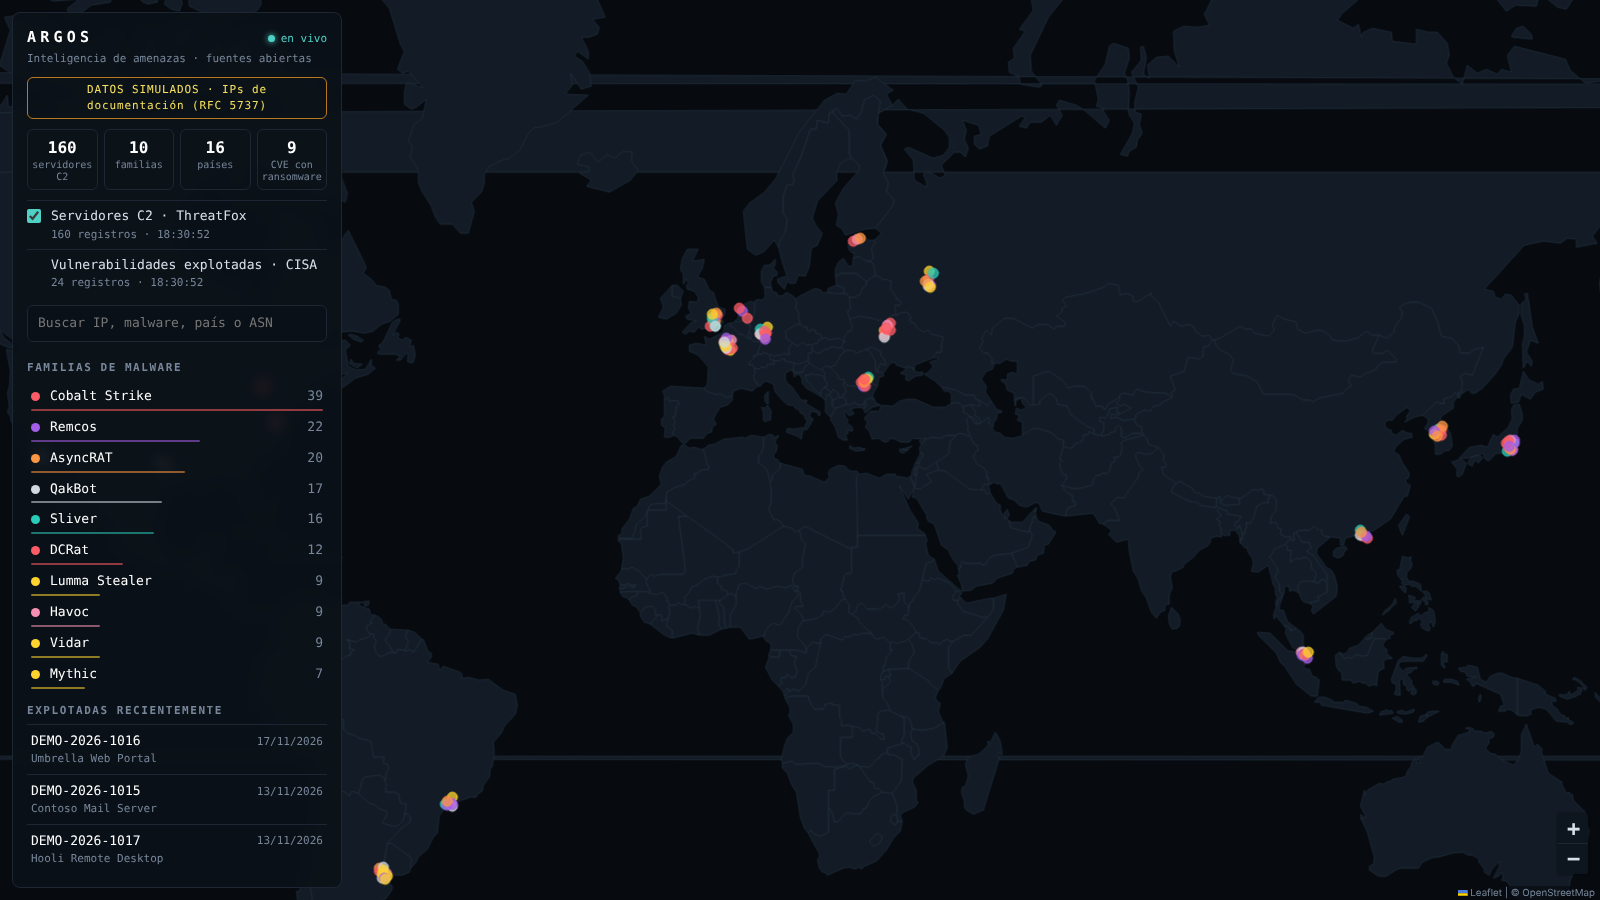
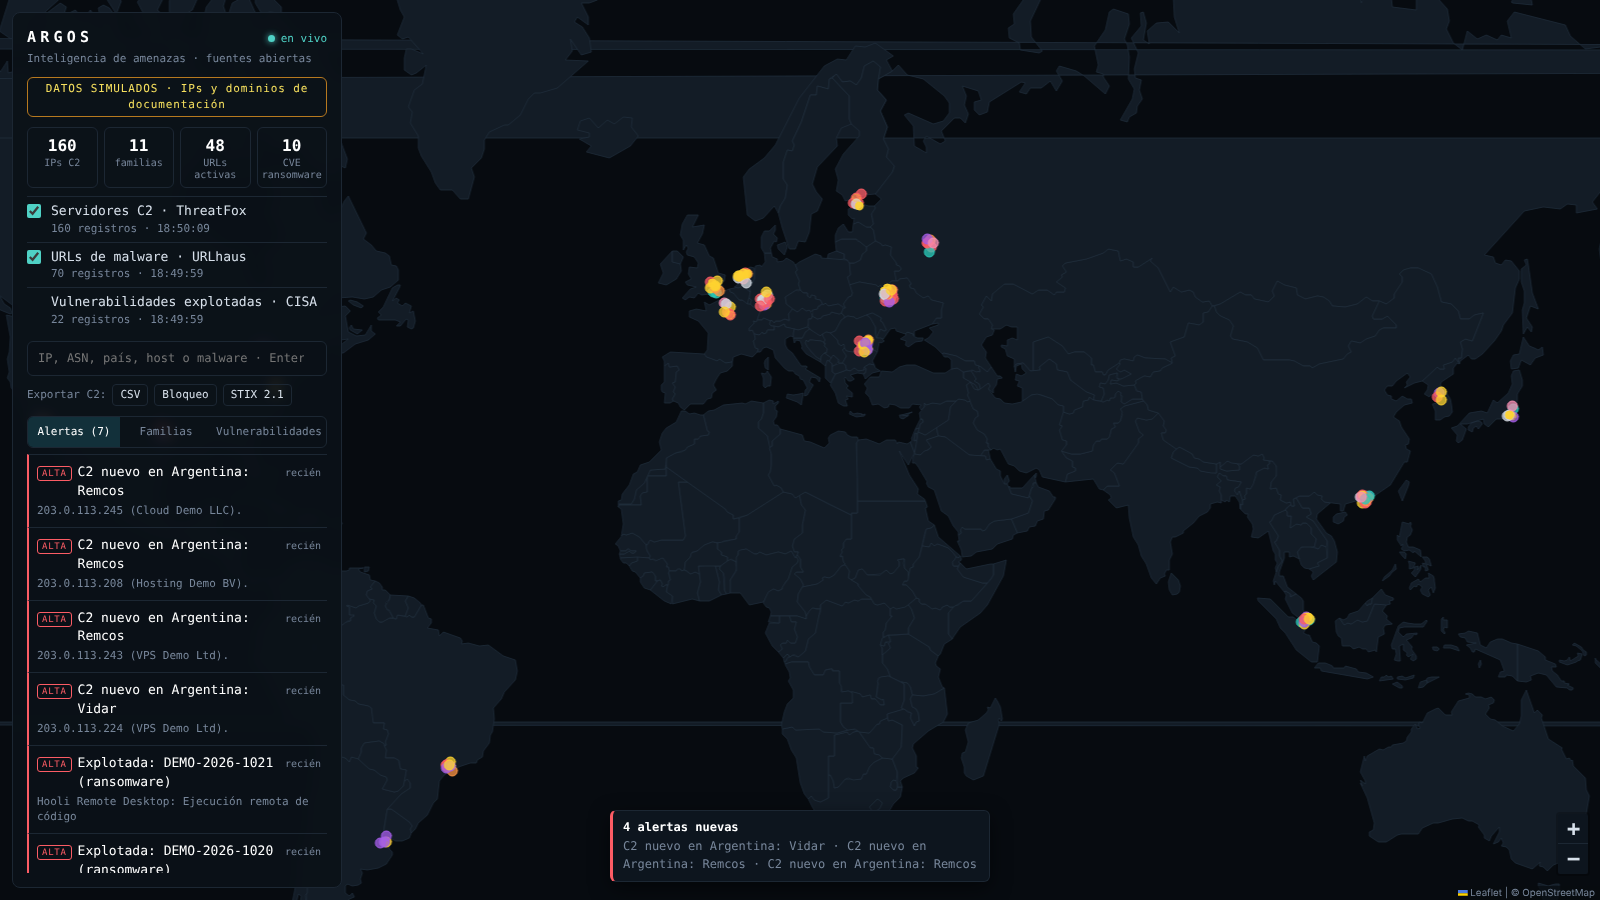
docs: documentar arquitectura y modelo de amenazas

diff --git a/README.md b/README.md
@@ -1,64 +1,58 @@
 # ARGOS
 
 Plataforma de inteligencia de amenazas con fuentes abiertas. Ubica en un mapa mundial, en tiempo
-real, los servidores de comando y control (C2) que usan las familias de malware activas, y sigue
-las vulnerabilidades que se están explotando en ataques reales.
+real, la infraestructura de los atacantes (servidores de comando y control y URLs que distribuyen
+malware), la correlaciona para descubrir conexiones, genera alertas y exporta los indicadores en
+formatos estándar.
 
 ![Vista general en modo demo](docs/vista-general.png)
 
-## Qué muestra
+## Qué hace
+
+**Fuentes en vivo**
 
 | Capa | Fuente | Qué es |
 |---|---|---|
-| Servidores C2 | [ThreatFox](https://threatfox.abuse.ch) (abuse.ch) | IPs y puertos desde los que se controla malware (Cobalt Strike, AsyncRAT, Remcos, etc.), geolocalizados y coloreados por familia |
-| Vulnerabilidades explotadas | [CISA KEV](https://www.cisa.gov/known-exploited-vulnerabilities-catalog) | CVE que CISA confirma como explotados, marcando los usados en campañas de ransomware |
+| Servidores C2 | [ThreatFox](https://threatfox.abuse.ch) | IPs desde las que se controla malware (Cobalt Strike, AsyncRAT, Remcos…), geolocalizadas y coloreadas por familia |
+| URLs de malware | [URLhaus](https://urlhaus.abuse.ch) | Enlaces que distribuyen malware; los alojados en una IP aparecen en el mapa |
+| Vulnerabilidades explotadas | [CISA KEV](https://www.cisa.gov/known-exploited-vulnerabilities-catalog) | CVE confirmados en ataques reales, marcando los usados por ransomware |
 
-En el panel se puede filtrar por familia de malware, buscar por IP, país o ASN, y abrir el detalle
-de cada indicador. Las IPs se muestran desactivadas (`45[.]9[.]148[.]10`), como es costumbre al
-compartir indicadores, para que no se abran por error.
+**Investigación por correlación.** Desde cualquier IP, red (ASN), país, host o familia de malware se
+abre una investigación que muestra todo lo conectado en un grafo navegable: qué familias usan esa
+IP, qué otras IPs maliciosas hay en la misma red, qué URLs de malware aloja. Cada nodo es un nuevo
+punto de partida, y el recorrido queda en migas para volver atrás.
 
-![Filtro por familia y detalle de un indicador](docs/filtro-y-detalle.png)
+![Investigación de una IP](docs/investigacion.png)
+
+**Alertas automáticas** cuando aparece una familia de malware nunca vista, un servidor C2 en un
+país vigilado, un crecimiento brusco de una familia o una vulnerabilidad explotada nueva (con
+severidad alta si la usa el ransomware).
+
+**Exportación** de los indicadores en CSV, como lista de bloqueo para un firewall, o en
+[STIX 2.1](https://oasis-open.github.io/cti-documentation/), el estándar para compartir
+inteligencia de amenazas entre herramientas. Se puede exportar todo o solo una familia o un país.
 
 ## Arquitectura
 
-```
-fuentes ──► recolectores ──► enriquecimiento (GeoIP + caché) ──► caché ──► WebSocket ──► navegador
-                                                                   │                       ▲
-                                                                   └──► historial ─────────┘ REST
-```
+Backend en Python (FastAPI) y frontend en TypeScript (Vite + Leaflet), comunicados por REST y
+WebSocket. El detalle de cada pieza y las decisiones de diseño están en
+[docs/ARCHITECTURE.md](docs/ARCHITECTURE.md).
 
-### Backend (`backend/`, Python + FastAPI)
+## Seguridad
 
-| Carpeta | Responsabilidad |
-|---|---|
-| `app/collectors/` | Un módulo por fuente (ThreatFox, CISA KEV, demo). Todos implementan `Collector.fetch()` y devuelven `Entity`. |
-| `app/geolocation/` | Puerto `Geolocator` con adaptadores intercambiables (ip-api, demo). |
-| `app/services/` | Planificador por fuente con espera creciente ante errores, enriquecimiento, caché en memoria y difusión por WebSocket. |
-| `app/storage/` | Historial y caché de geolocalización en SQLite, detrás de interfaces chicas. |
-| `app/api/` | REST y WebSocket. Solo leen datos ya procesados: nunca consultan fuentes. |
-| `app/domain/` | Modelo común (`Entity`, `GeoInfo`, `Snapshot`): el contrato con el frontend. |
-| `app/core/` | Configuración por variables de entorno o `backend/.env`. |
+El modelo de amenazas completo está en [SECURITY.md](SECURITY.md). En resumen:
 
-### Frontend (`frontend/`, Vite + TypeScript + Leaflet)
+- Las claves viven solo en `backend/.env`; el navegador nunca las ve, y gitleaks las busca en CI.
+- Todo dato externo se valida al entrar y se muestra como texto, nunca como HTML.
+- Los indicadores se muestran desactivados (`1[.]2[.]3[.]4`) y el CSV neutraliza fórmulas de Excel.
+- La API es de solo lectura, con límite de consultas por cliente y cabeceras de seguridad.
+- El modo demo usa IPs y dominios reservados para documentación: nunca acusa a una IP real.
 
-| Carpeta | Responsabilidad |
-|---|---|
-| `src/api/` | Tipos del contrato y cliente REST/WebSocket con reconexión automática. |
-| `src/state/` | Estado global inmutable con suscripción (flujo de datos en una sola dirección). |
-| `src/layers/` | Una clase por capa del mapa con la interfaz `MapLayer`, registradas en `registry.ts`. |
-| `src/map/` | Mapa base configurable, sin lógica de datos. |
-| `src/ui/` | Panel: estadísticas, fuentes, familias de malware y vulnerabilidades. |
+## Calidad
 
-## Decisiones de seguridad
-
-- **Las claves viven solo en el backend** (`backend/.env`, fuera de Git). El navegador nunca las ve.
-- **Todo dato externo se trata como no confiable:** se valida con Pydantic al entrar y se muestra con
-  `textContent`, nunca como HTML. Los enlaces solo se aceptan si son `http(s)`.
-- **Indicadores desactivados** en la interfaz para evitar clics accidentales.
-- **API de solo lectura** (CORS limitado a `GET` y al origen del frontend).
-- **El modo demo no acusa a nadie:** usa IPs reservadas para documentación (RFC 5737) y CVE ficticios.
-- **Geolocalización mínima:** solo se envían a ip-api IPs públicas que ya son indicadores públicos, y
-  cada una se consulta una única vez gracias a la caché.
+Cada cambio pasa por [GitHub Actions](.github/workflows/ci.yml): linter con reglas de seguridad
+(Ruff con Bandit), tests, chequeo de tipos, auditoría de dependencias de Python y de npm, y
+búsqueda de claves filtradas. Dependabot propone actualizaciones de dependencias cada semana.
 
 ## Cómo correrlo
 
@@ -71,7 +65,7 @@ python -m venv .venv
 .venv/Scripts/activate        # Windows (PowerShell: .venv\Scripts\Activate.ps1)
 # source .venv/bin/activate   # Linux o Mac
 pip install -e ".[dev]"
-cp .env.example .env          # y completá ARGOS_THREATFOX_KEY
+cp .env.example .env          # y completá ARGOS_ABUSECH_KEY
 python -m uvicorn app.main:app --reload
 
 # frontend (otra terminal)
@@ -82,14 +76,14 @@ npm run dev                   # http://localhost:5173
 
 Para probarlo sin clave ni red, poné `ARGOS_MODE=demo` en `backend/.env`.
 
-La clave de ThreatFox es gratuita: se genera en <https://auth.abuse.ch> entrando con una cuenta de
+La clave de abuse.ch (sirve para ThreatFox y URLhaus) es gratuita: se genera en <https://auth.abuse.ch> entrando con una cuenta de
 GitHub, Google o similar.
 
 ### Con Docker
 
 ```bash
-cp backend/.env.example .env
-docker compose up --build     # http://localhost:8080
+cp backend/.env.example backend/.env    # y completá la clave
+docker compose up --build               # http://localhost:8080
 ```
 
 ## Endpoints
@@ -98,23 +92,28 @@ docker compose up --build     # http://localhost:8080
 |---|---|---|
 | GET | `/api/health` | estado y modo (`live` o `demo`) |
 | GET | `/api/layers` | estado de cada fuente |
-| GET | `/api/layers/{capa}` | entidades actuales (`c2` o `kev`) |
+| GET | `/api/layers/{capa}` | entidades actuales (`c2`, `urls` o `kev`) |
+| GET | `/api/pivot?kind=ip&value=…` | correlación de una IP, `asn`, `country`, `malware` o `host` |
+| GET | `/api/alerts` | alertas recientes |
+| GET | `/api/export/c2.csv` · `blocklist.txt` · `stix.json` | indicadores exportados (filtros `malware` y `country`) |
 | GET | `/api/history/{capa}?hours=24` | observaciones guardadas (hasta 90 días) |
-| WS | `/ws` | estado completo al conectar y cada actualización después |
+| WS | `/ws` | estado completo y alertas al conectar; cada cambio después |
 
 Documentación interactiva en `http://localhost:8000/docs`.
 
 ## Tests
 
 ```bash
-cd backend && pytest
+cd backend
+pytest          # tests (sin red: las fuentes se simulan)
+ruff check .    # linter con reglas de seguridad
+pip-audit .     # vulnerabilidades en dependencias
 ```
-
-No usan red: las respuestas de ThreatFox, CISA e ip-api se simulan.
 
 ## Próximos pasos
 
 - Auditor de exposición de dominios con autorización verificada por DNS, integrado como capa
+- Víctimas de ransomware publicadas por los grupos, por país y sector
 - Caídas de internet por país (IODA o Cloudflare Radar)
-- Alertas cuando aparece una familia nueva o un C2 en un país o ASN elegido
-- Exportar indicadores en formato STIX o como lista de bloqueo
+- Línea de tiempo para reproducir la evolución de una campaña sobre el historial
+- Enriquecimiento con certificados TLS y DNS pasivo para descubrir infraestructura relacionada

diff --git a/docs/ARCHITECTURE.md b/docs/ARCHITECTURE.md
@@ -1,0 +1,45 @@
+# Arquitectura
+
+## Visión general
+
+ARGOS son dos aplicaciones independientes que solo comparten un contrato de datos (`Entity`):
+
+```
+                ┌──────────────────────────── backend (Python) ───────────────────────────┐
+ThreatFox ──┐   │                                                                          │
+URLhaus ────┼──►│ recolectores ─► enriquecimiento ─► caché ─┬─► WebSocket ──────────────────┼──► navegador
+CISA KEV ───┘   │ (adaptadores)   (GeoIP + caché)            ├─► motor de alertas ─► WebSocket │
+                │                                            ├─► historial (SQLite)          │
+                │                                            └─► REST: capas, pivote,        │
+                │                                                alertas, exportación        │
+                └──────────────────────────────────────────────────────────────────────────┘
+```
+
+## Backend
+
+| Pieza | Patrón | Por qué |
+|---|---|---|
+| `collectors/` | Puertos y adaptadores | Cada fuente traduce su formato al modelo común. Sumar una fuente es agregar un archivo. |
+| `geolocation/` | Puertos y adaptadores | El proveedor de GeoIP es intercambiable (ip-api, demo, o MaxMind en el futuro). |
+| `services/scheduler.py` | Productor y consumidor | Cada fuente corre en su propio ciclo con espera creciente ante errores. Una fuente caída no frena a las demás y conserva su último dato bueno. |
+| `services/enrichment.py` | Tubería (pipeline) | Pasos que agregan información entre la fuente y la caché, sin que la fuente lo sepa. |
+| `services/alerts.py` | Observador | Escucha cada actualización y la compara con la anterior. |
+| `services/correlation.py` | Consulta sobre la caché | El pivote no consulta fuentes externas: responde en milisegundos y no gasta cuota. |
+| `services/hub.py` | Publicación y suscripción | Los cambios se empujan a los navegadores; nadie pregunta cada tanto. |
+| `storage/` | Repositorio | SQLite detrás de interfaces chicas; se puede pasar a Postgres sin tocar el resto. |
+| `main.py` | Raíz de composición | El único lugar donde se crean y conectan las piezas. Por eso cada una se prueba por separado. |
+
+## Frontend
+
+| Pieza | Patrón | Por qué |
+|---|---|---|
+| `state/store.ts` | Flujo unidireccional | El WebSocket y las acciones del usuario actualizan el estado; las vistas solo lo leen. |
+| `layers/` | Plugins con clase base | `PointLayer` resuelve lo común; cada capa define su estilo y su ficha. |
+| `ui/investigation.ts` | Navegación por migas | Cada pivote es un paso; se puede volver a cualquiera. |
+
+## Decisiones
+
+- **Python y no Go para el backend:** el trabajo es esperar respuestas de red, que `asyncio` resuelve bien, y el ecosistema de seguridad está en Python.
+- **SQLite y no Postgres por ahora:** cero instalación para quien clona el repo. La interfaz de repositorio deja la puerta abierta.
+- **TypeScript sin framework:** la interfaz es chica y así hay menos dependencias que auditar.
+- **Correlación en memoria:** con miles de indicadores alcanza y sobra. Con millones, el paso natural es un grafo en base de datos.

diff --git a/SECURITY.md b/SECURITY.md
@@ -1,0 +1,34 @@
+# Seguridad
+
+## Reportar una vulnerabilidad
+
+Si encontrás una falla de seguridad en ARGOS, no abras un issue público: escribime por privado
+(los datos de contacto están en mi perfil de GitHub). Respondo dentro de las 72 horas.
+
+## Modelo de amenazas
+
+ARGOS procesa datos de fuentes externas y los muestra en un navegador. Estas son las amenazas
+consideradas y cómo se mitigan:
+
+| Amenaza | Ejemplo | Mitigación |
+|---|---|---|
+| Contenido malicioso en las fuentes | Un indicador con `<script>` o un enlace `javascript:` | Validación con Pydantic al entrar; en la interfaz todo se muestra con `textContent` y solo se aceptan enlaces `http(s)` |
+| Clic accidental en un indicador | Abrir una URL de malware desde el panel | Indicadores desactivados (`hxxp://1[.]2[.]3[.]4`) |
+| Inyección de fórmulas | Un valor `=cmd|...` en el CSV exportado | Los valores que empiezan con `=`, `+`, `-` o `@` se neutralizan |
+| Inyección SQL | Valores externos en consultas | Todas las consultas usan parámetros |
+| Fuga de claves | La clave de abuse.ch en el repositorio o en el navegador | Clave solo en `backend/.env` (en `.gitignore`), nunca enviada al frontend; gitleaks en CI |
+| Abuso de la API | Un cliente que satura el servidor | Límite de consultas por IP (token bucket) |
+| Clickjacking y XSS | La interfaz embebida en otro sitio | CSP, `X-Frame-Options: DENY` y `frame-ancestors 'none'` |
+| Dependencias vulnerables | Una librería con una CVE | `pip-audit` y `npm audit` en CI, Dependabot semanal |
+| Escalada en el contenedor | Un fallo que permite ejecutar código | Usuario sin privilegios, sistema de archivos de solo lectura, `no-new-privileges` |
+| Falsas acusaciones en la demo | Mostrar una IP real como maliciosa | El modo demo usa solo rangos de documentación (RFC 5737) y dominios `.example` (RFC 2606) |
+
+## Privacidad
+
+ARGOS no procesa datos personales. Solo se envían a ip-api direcciones IP públicas que ya son
+indicadores públicos de amenazas, y cada una se consulta una única vez gracias a la caché.
+
+## Fuera de alcance
+
+ARGOS no expone autenticación porque está pensado para uso local o detrás de una red privada.
+Para publicarlo en internet habría que agregar autenticación delante (por ejemplo, un proxy con OAuth).
